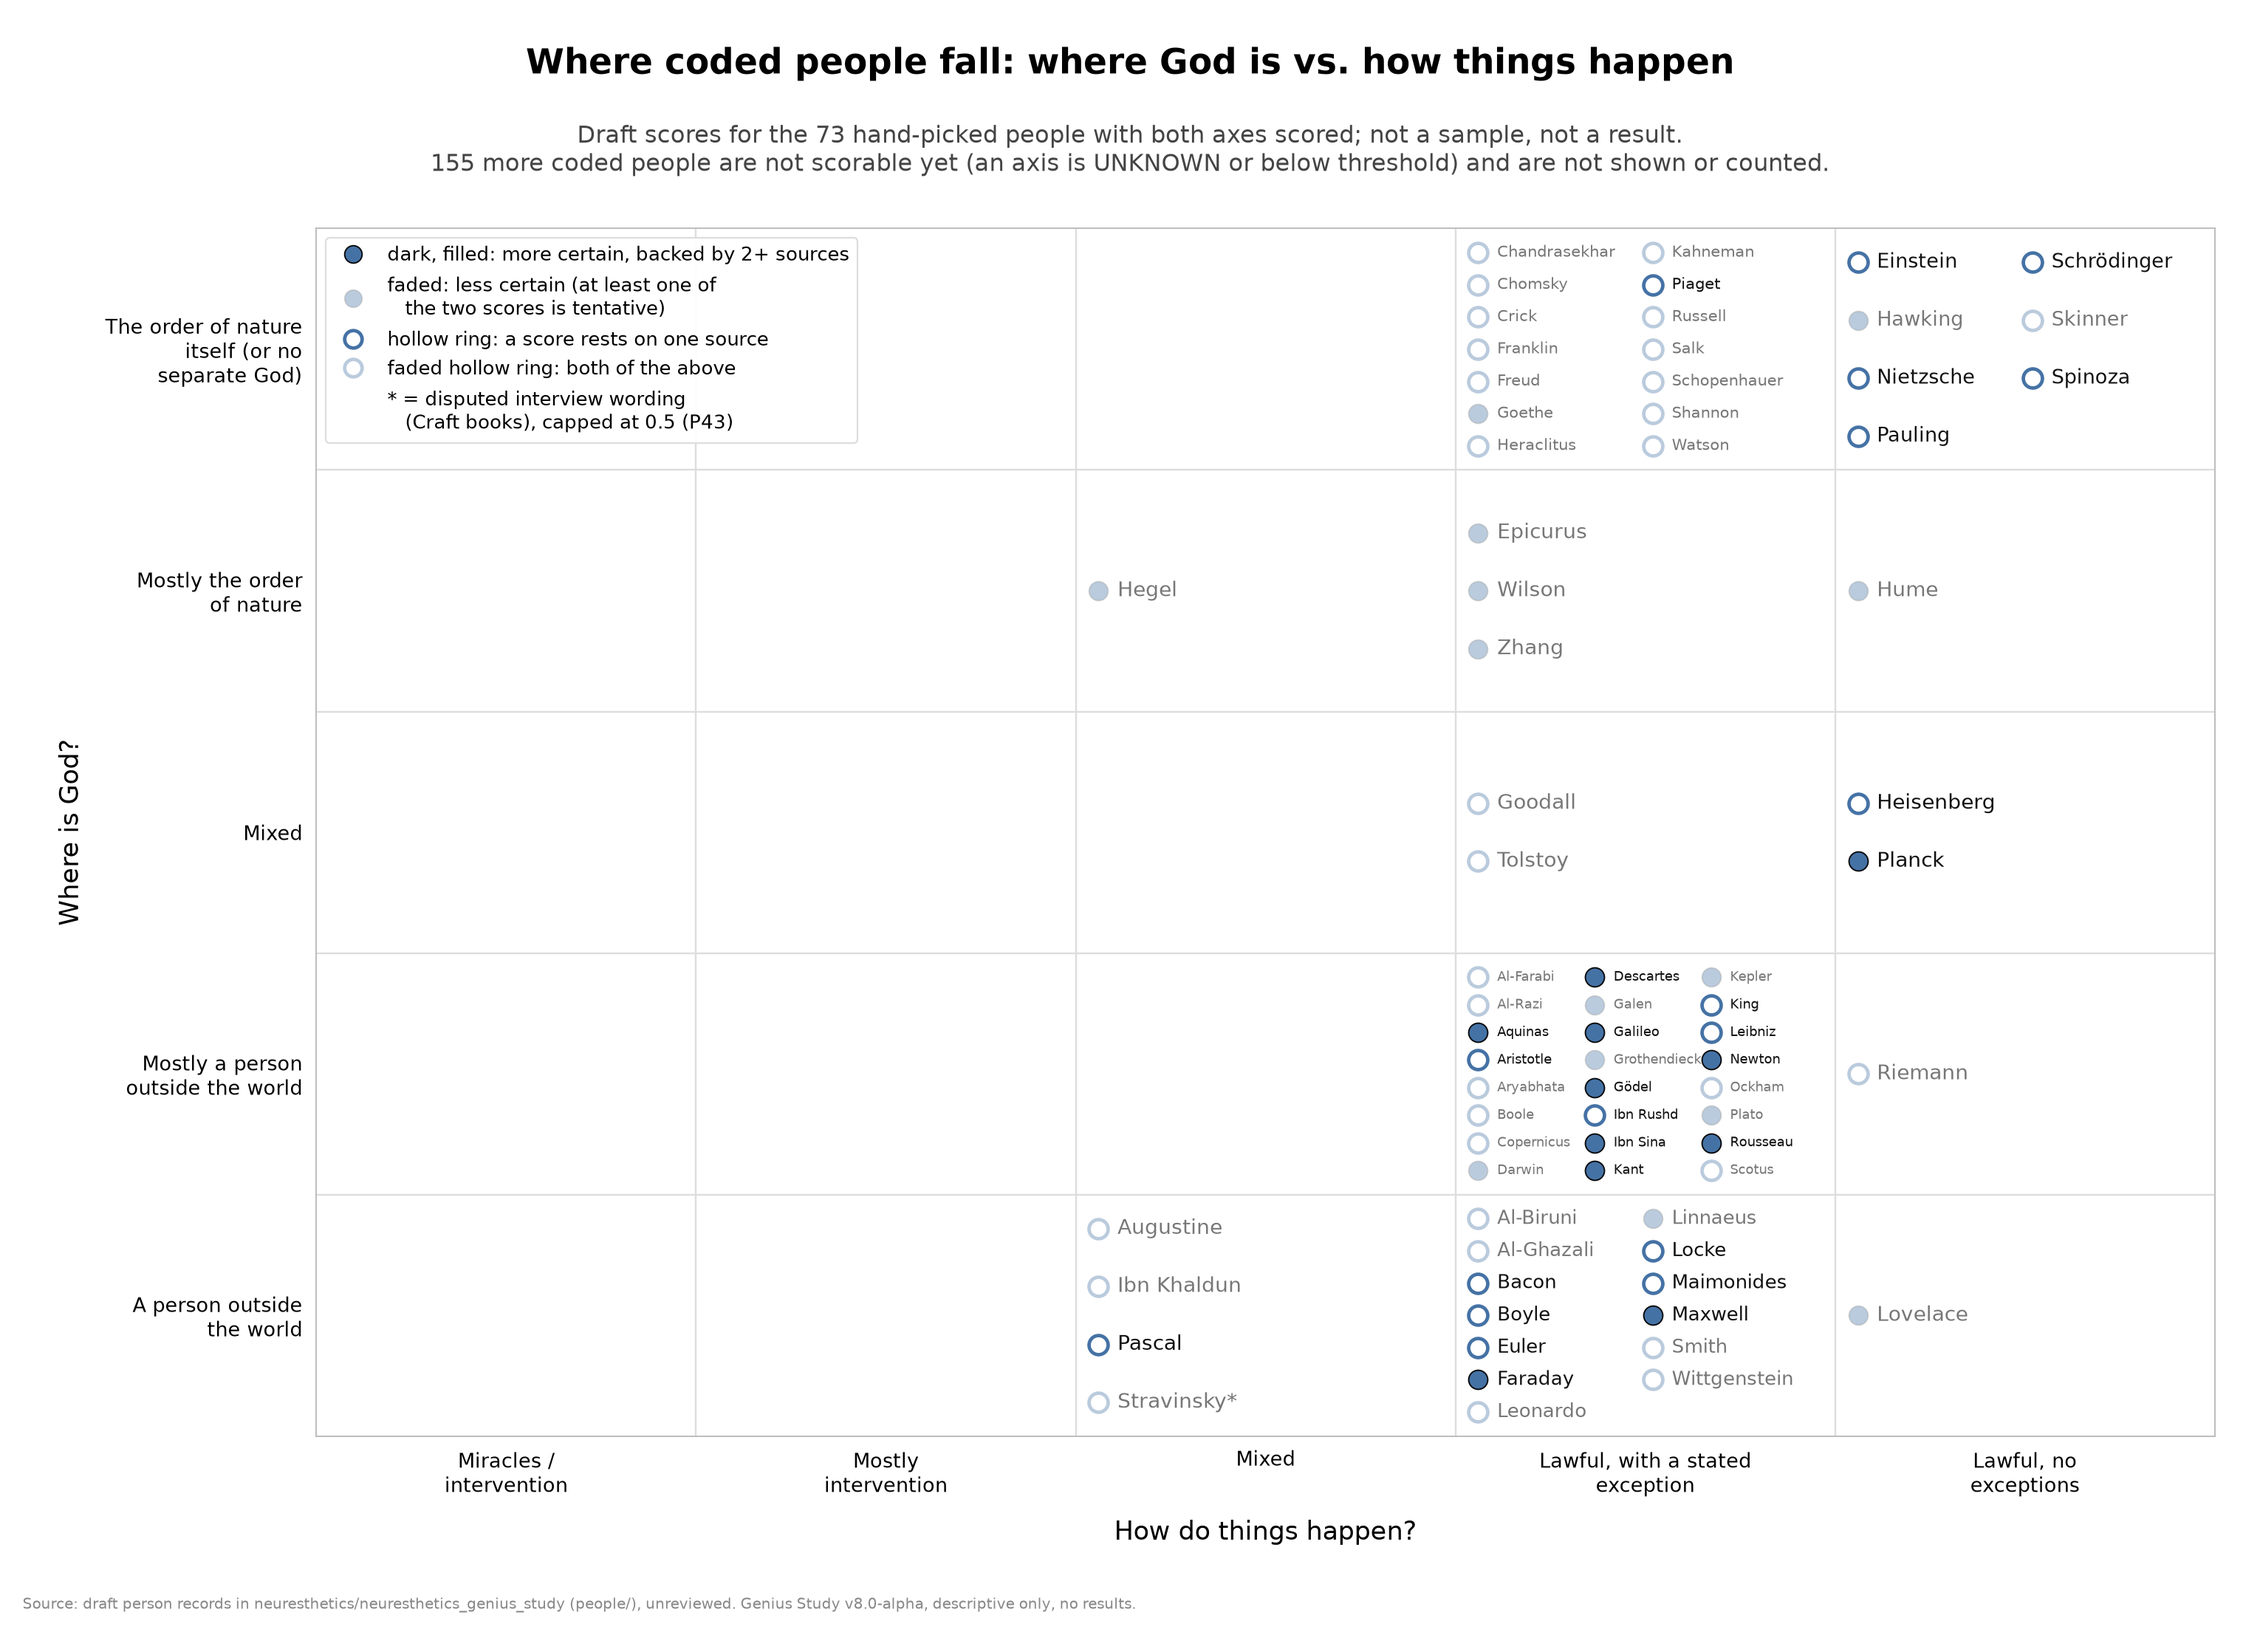
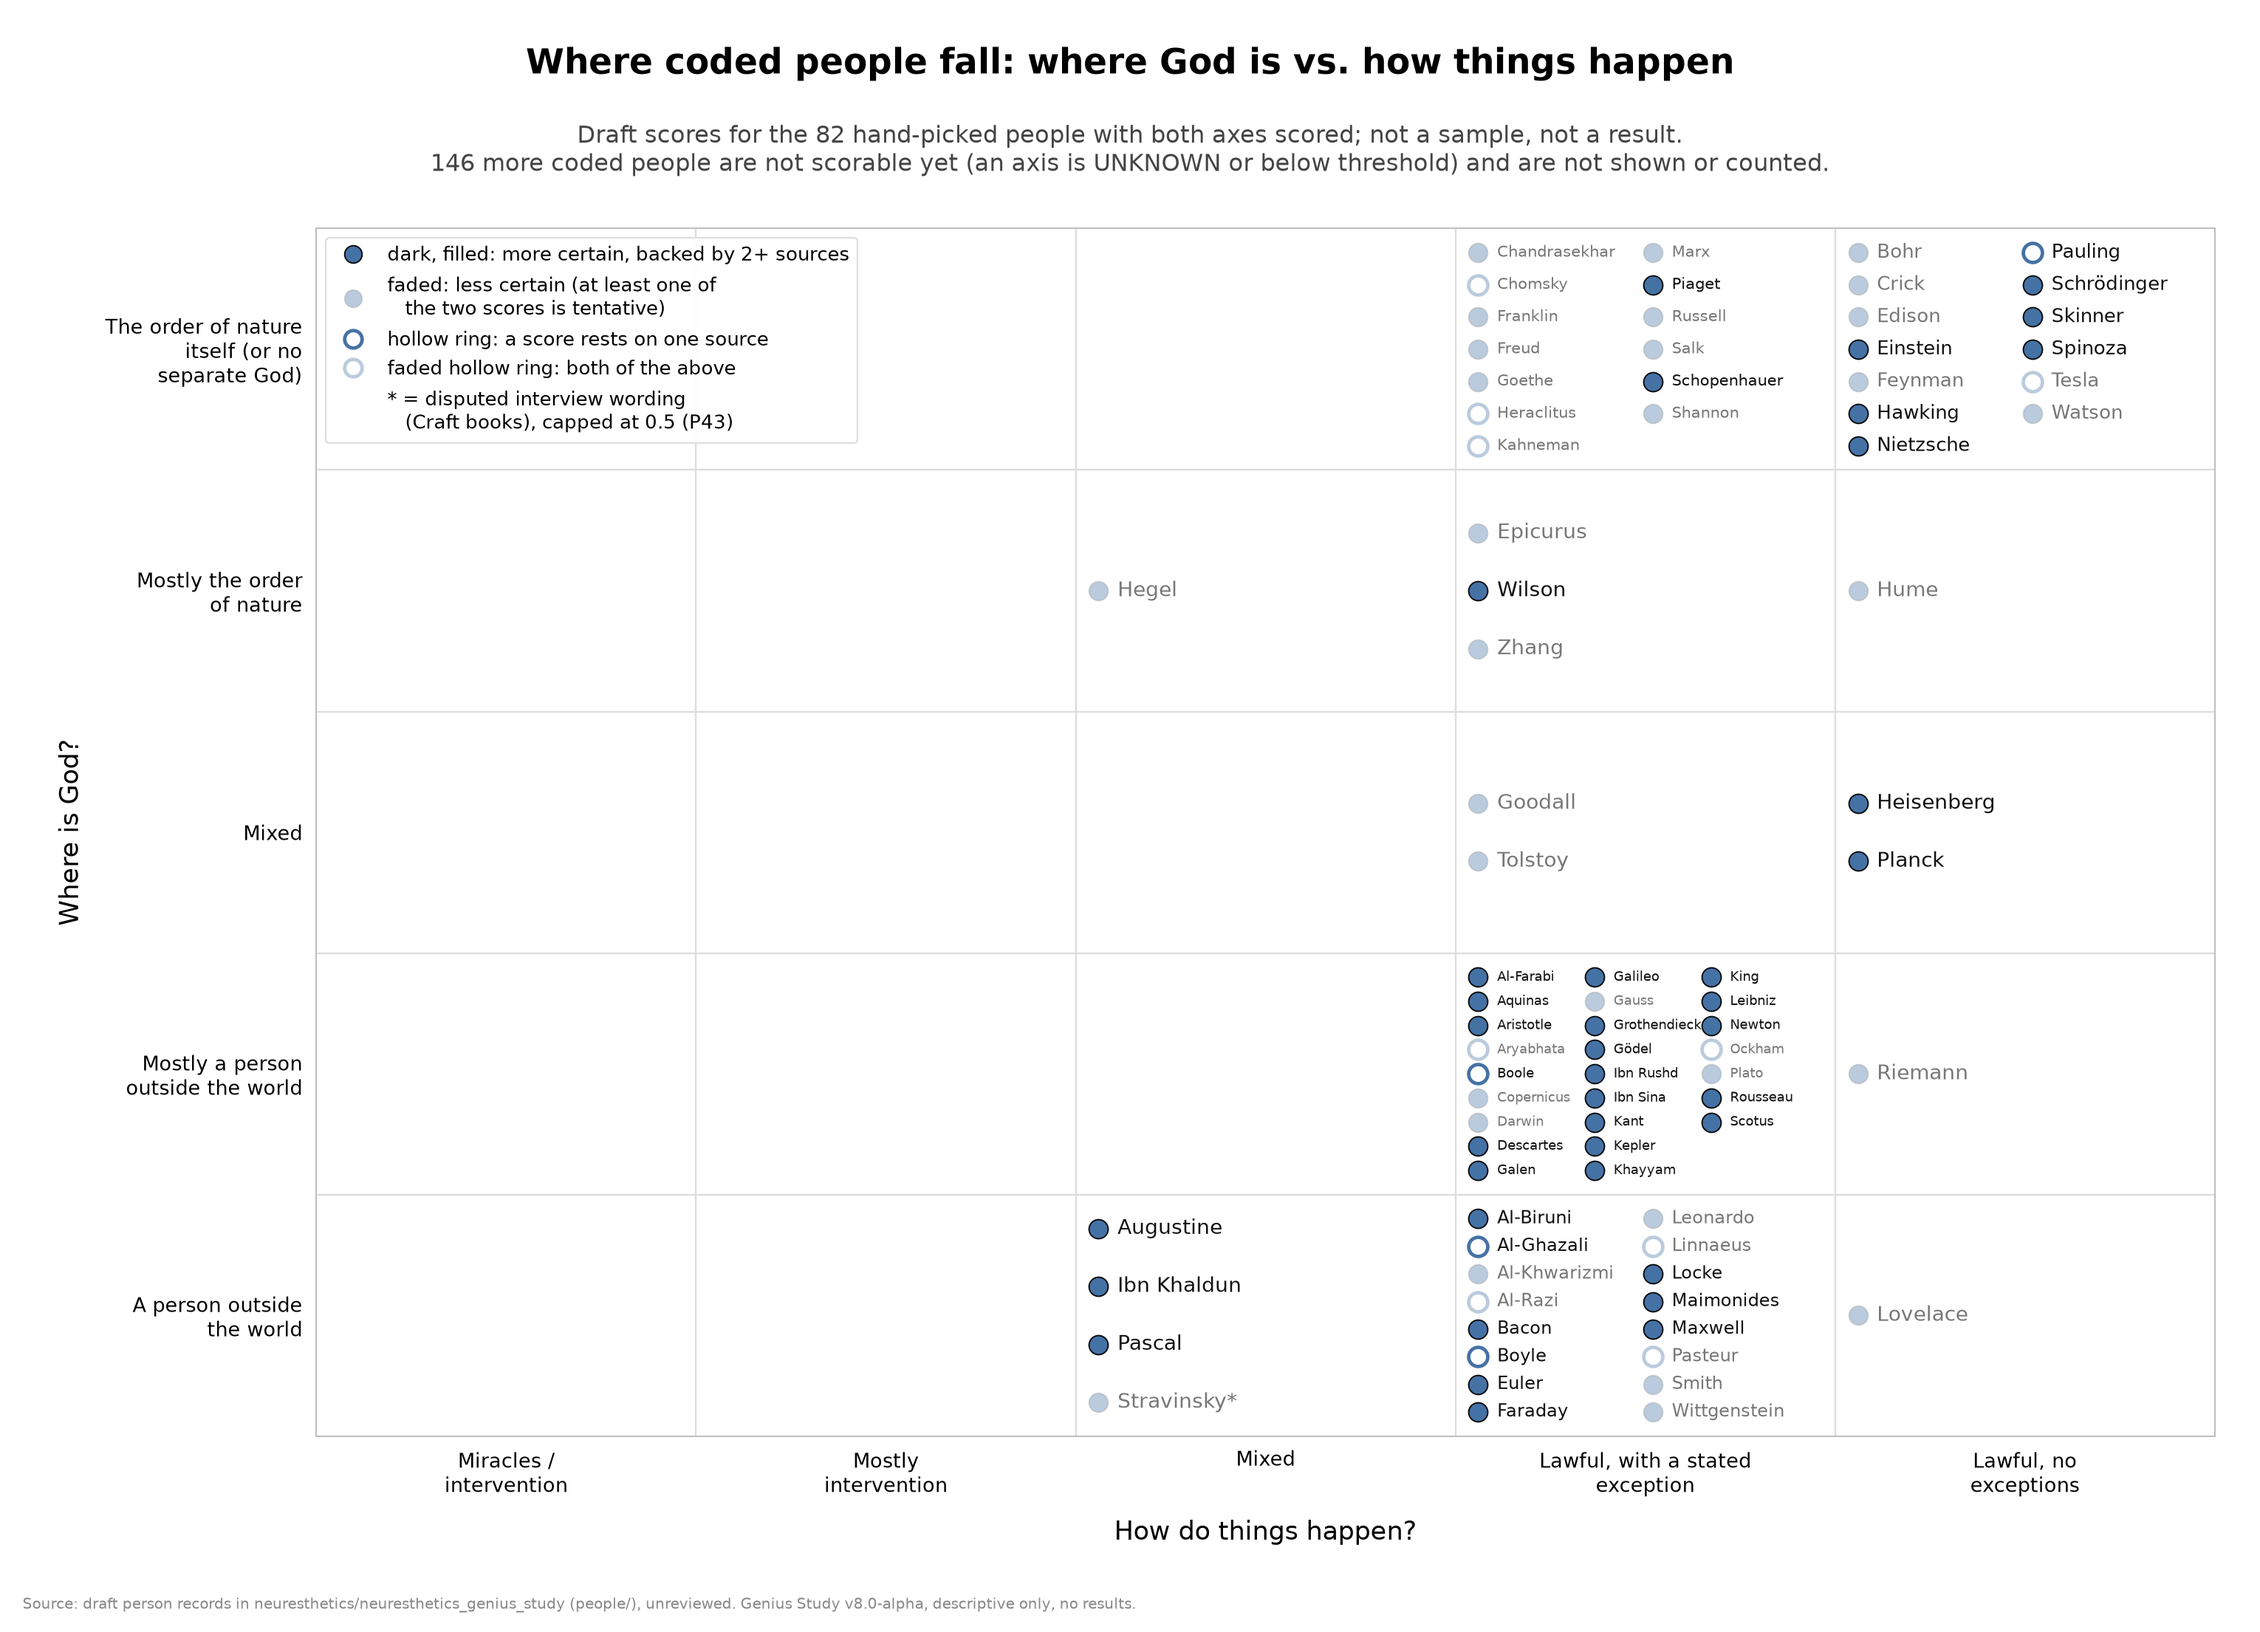
Refresh person and overlay charts after deepen through Mendel (#165).
82 plotted, 146 not scorable; 0 label overlaps. Darkness/hollow cues from deepening.

diff --git a/README.md b/README.md
@@ -43,7 +43,7 @@ These charts describe what is in the repo so far; they are not results. The rost
 ![Draft person scores: where coded people fall on where God is against how things happen, with no region marked](figures/people_cause_locus.png)
 
 <!-- BEGIN GENERATED: people_chart_caption -->
-*Draft person scores: where God is (up the chart) against how things happen (across the chart). No region is marked. Plotted: the 73 coded people with both axes scored; every plotted person is B_cause 2, 3 or 4. Nobody plotted scores in the left two columns (miracles or intervention, or mostly intervention). **Interview voice (P43):** Igor Stravinsky (A 0, B 2) rests on interview statements of disputed wording (for Stravinsky, the Craft books), capped at 0.5 and drawn faded; 5 plotted people score left of B 3 (Augustine, Hegel, Ibn Khaldun, Pascal, Stravinsky). **Not scorable yet:** 155 coded people lack a score on at least one axis (42 with no A_locus score, 22 with no B_cause score, 91 with neither; the value is UNKNOWN or BELOW_THRESHOLD). They are not plotted and are left out of every count here. These are unreviewed, hand-picked drafts, not a sample, and there is no base rate for any era, so the chart shows only where these people fall, not a pattern or a rate. Each surname sits next to its dot. A faded dot is a less certain score (below 0.7 on at least one axis).*
+*Draft person scores: where God is (up the chart) against how things happen (across the chart). No region is marked. Plotted: the 82 coded people with both axes scored; every plotted person is B_cause 2, 3 or 4. Nobody plotted scores in the left two columns (miracles or intervention, or mostly intervention). **Interview voice (P43):** Igor Stravinsky (A 0, B 2) rests on interview statements of disputed wording (for Stravinsky, the Craft books), capped at 0.5 and drawn faded; 5 plotted people score left of B 3 (Augustine, Hegel, Ibn Khaldun, Pascal, Stravinsky). **Not scorable yet:** 146 coded people lack a score on at least one axis (41 with no A_locus score, 25 with no B_cause score, 80 with neither; the value is UNKNOWN or BELOW_THRESHOLD). They are not plotted and are left out of every count here. These are unreviewed, hand-picked drafts, not a sample, and there is no base rate for any era, so the chart shows only where these people fall, not a pattern or a rate. Each surname sits next to its dot. A faded dot is a less certain score (below 0.7 on at least one axis).*
 <!-- END GENERATED: people_chart_caption -->
 
 ![Draft belief-system scores on where God is against how things happen, with margin strips for systems where an axis is not settled](figures/systems_cause_locus.png)
